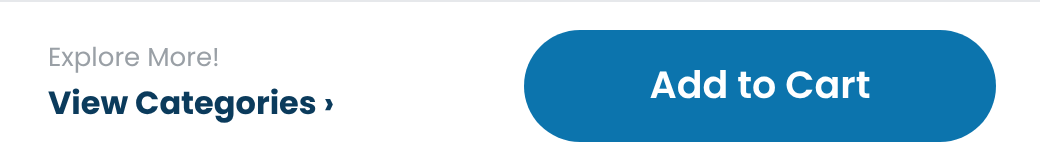
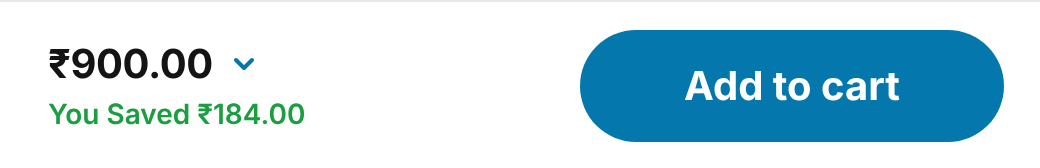
V1 PDP: new sticky bottom bar (price, savings, Add to cart) everywhere
Claude-Session: https://claude.ai/code/session_01WMc7YTtVs6fNmpr8MJ9aCK

diff --git a/jiomart-discovery.html b/jiomart-discovery.html
@@ -78,7 +78,7 @@
               <div class="phone phone-front">
                 <div class="phone-screen">
                   <img
-                    src="./images/enhanceProduct/enhance-v1-pdp-fold.png"
+                    src="./images/enhanceProduct/enhance-v1-pdp-fold.png?v=2"
                     alt="Redesigned JioMart discovery experience — V1 product page"
                   />
                 </div>
@@ -437,7 +437,7 @@
             </figure>
             <figure class="after">
               <figcaption>My design · V1</figcaption>
-              <div class="shot mock tall has-cta"><span class="mock-notch"></span><div class="mock-scroll"><img src="./images/enhanceProduct/enhance-v1-pdp-full.png" alt="PDP V1" /></div><img class="pdp-cta" src="./images/enhanceProduct/enhance-v1-pdp-cta.png" alt="" aria-hidden="true" /></div>
+              <div class="shot mock tall has-cta"><span class="mock-notch"></span><div class="mock-scroll"><img src="./images/enhanceProduct/enhance-v1-pdp-full.png" alt="PDP V1" /></div><img class="pdp-cta" src="./images/enhanceProduct/enhance-v1-pdp-cta.png?v=2" alt="" aria-hidden="true" /></div>
             </figure>
           </div>
         </div>
@@ -512,7 +512,7 @@
                      data-v1="./images/enhanceProduct/enhance-v1-pdp-full.png"
                      data-live="./images/enhanceProduct/enhance-v2-pdp-main.png"
                      src="./images/enhanceProduct/enhance-v1-pdp-full.png" alt="Product detail" />
-              </span><img class="pdp-cta" data-cta-stage="v1" src="./images/enhanceProduct/enhance-v1-pdp-cta.png" alt="" aria-hidden="true" /><img class="pdp-cta old-bar" data-cta-stage="before" hidden src="./images/enhanceProduct/enhance-before-pdp-bar.png" alt="" aria-hidden="true" /></span>
+              </span><img class="pdp-cta" data-cta-stage="v1" src="./images/enhanceProduct/enhance-v1-pdp-cta.png?v=2" alt="" aria-hidden="true" /><img class="pdp-cta old-bar" data-cta-stage="before" hidden src="./images/enhanceProduct/enhance-before-pdp-bar.png" alt="" aria-hidden="true" /></span>
               <figcaption>Product detail</figcaption>
             </figure>
             <figure class="iter-mock">

diff --git a/js/jiomart-deck-slides.js b/js/jiomart-deck-slides.js
@@ -170,7 +170,7 @@ window.DECK = {
       headline: ["Making ", "product discovery", " seamless"],
       highlight: "product discovery",
       body: "Shoppers could find products but struggled to choose. I redesigned the journey from Home to product page so deciding feels effortless.",
-      hero: "enhance-v1-pdp-fold.png",
+      hero: "enhance-v1-pdp-fold.png?v=2",
       backShots: ["enhance-v1-home.png", "enhance-v1-plp.png"],
       badge: { n: "{{+28%|carts}}", l: "More visits end in a cart" },
       meta: [
@@ -345,7 +345,7 @@ window.DECK = {
       sub: "I designed V1 and its IA. Live is the latest UI update, built on that IA.",
       stages: [
         { img: "enhance-problem-pdp.png", scroll: "enhance-problem-pdp-nobar.png", cta: "enhance-before-pdp-bar.png", ctaH: "37%", n: "Long page, key details buried" },
-        { img: "enhance-v1-pdp-fold.png", scroll: "enhance-v1-pdp-full.png", cta: "enhance-v1-pdp-cta.png", n: "Rating, size and offers moved up" },
+        { img: "enhance-v1-pdp-fold.png?v=2", scroll: "enhance-v1-pdp-full.png", cta: "enhance-v1-pdp-cta.png?v=2", n: "Rating, size and offers moved up" },
         { img: "enhance-live-pdp.jpg", video: "enhance-live-pdp.mp4", n: "Big image, offers, sticky Add to cart" }
       ],
       notes: "Product answers: can I trust it? Before, size, offers and delivery sat far down. My V1 pulled them up. Live is the latest UI refresh on the same IA: price, size and Add to cart stay on the first screen."

diff --git a/jiomart-deck.html b/jiomart-deck.html
@@ -58,7 +58,7 @@
       </aside>
     </div>
 
-    <script src="js/jiomart-deck-slides.js?v=123"></script>
+    <script src="js/jiomart-deck-slides.js?v=130"></script>
     <script src="js/jiomart-deck.js?v=129"></script>
     <script src="./js/gate.js?v=3"></script>
   </body>
